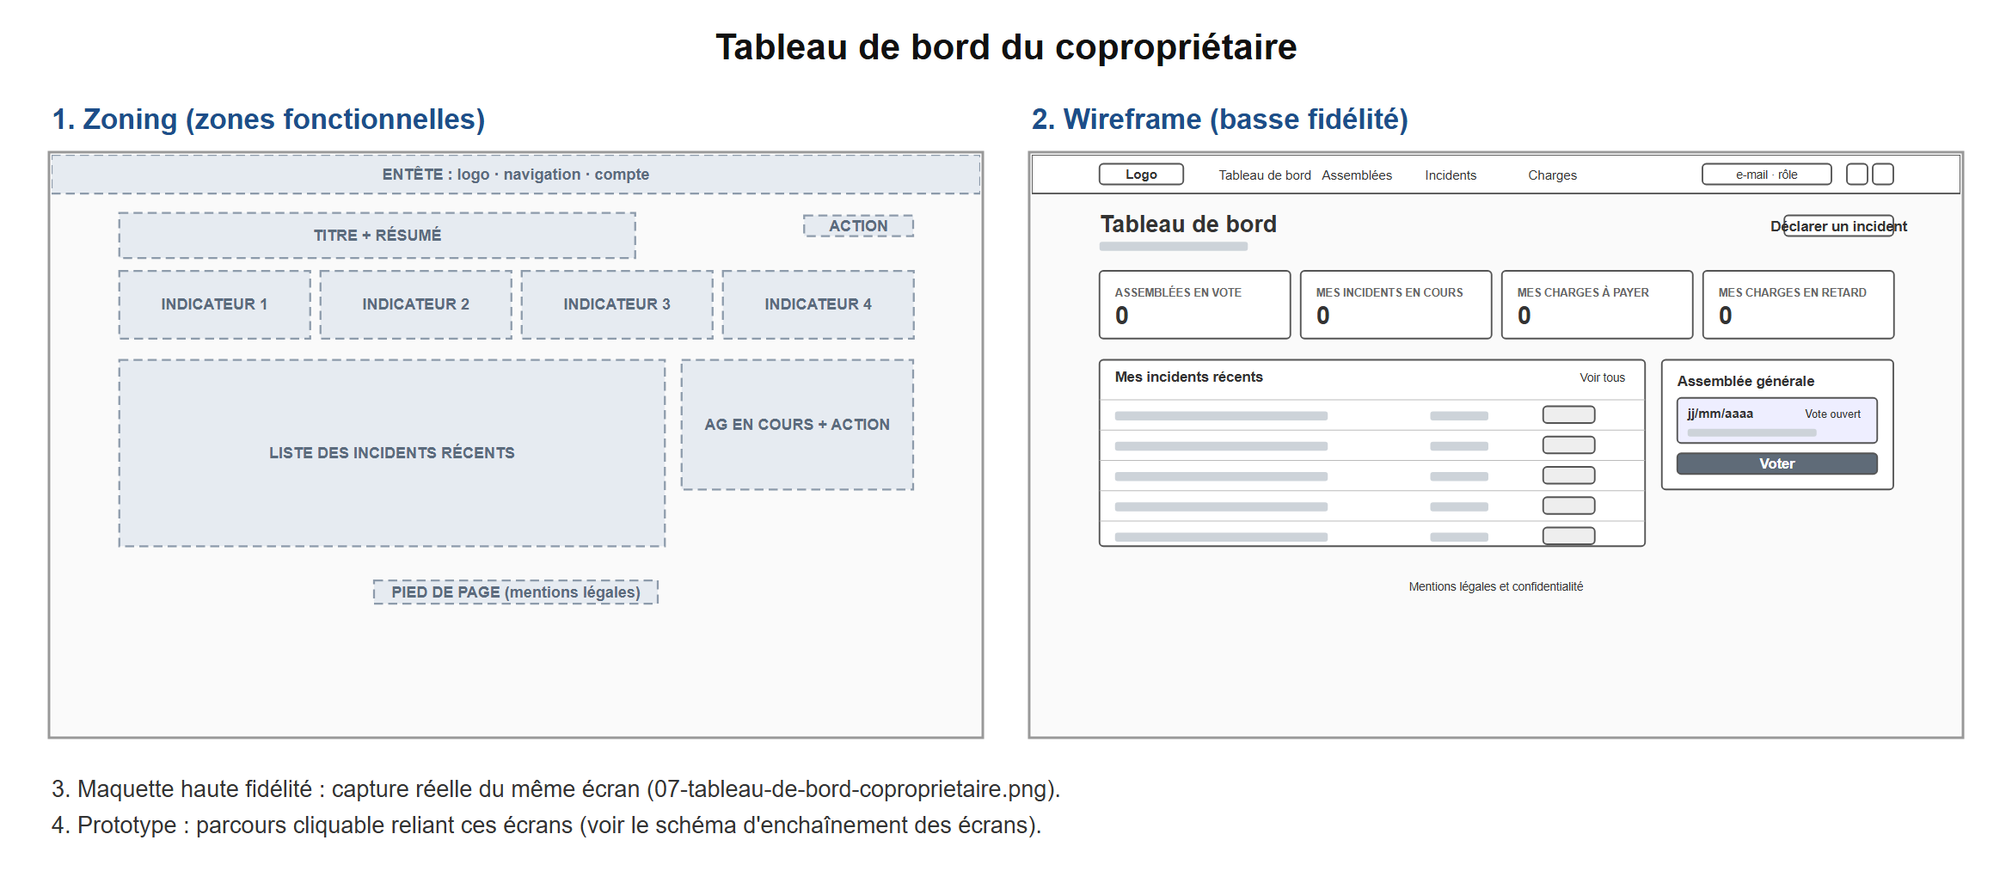
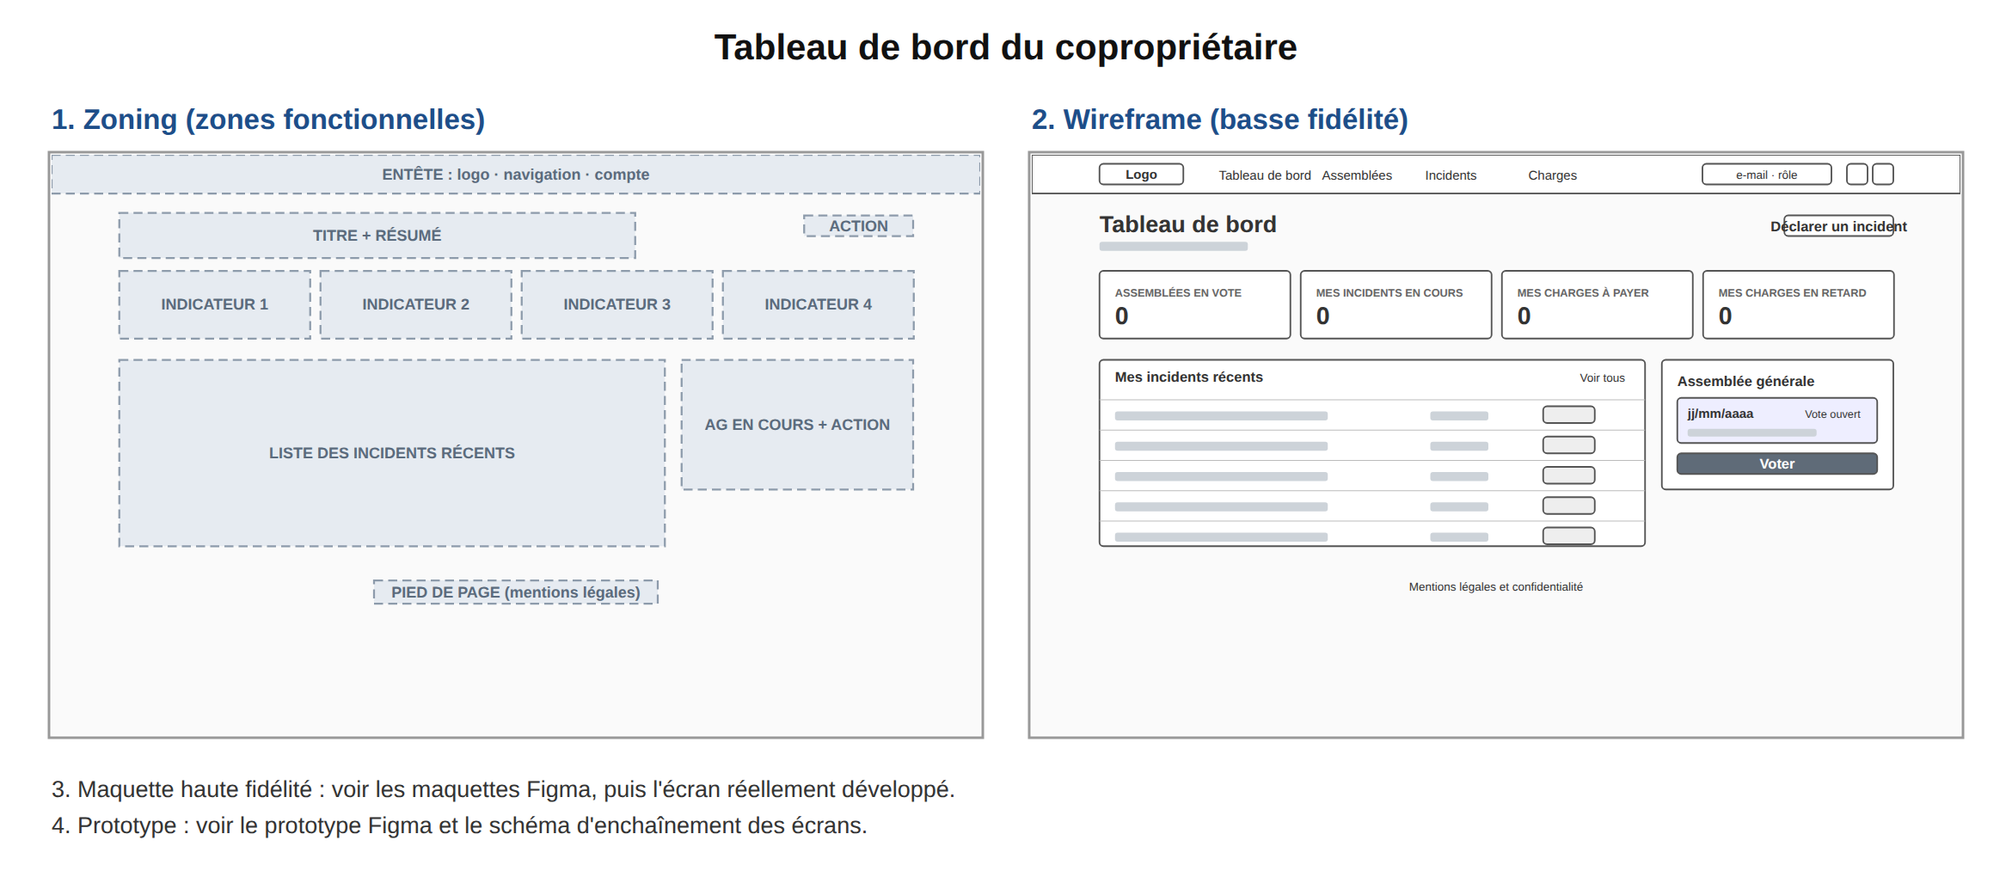
docs(conception): dictionnaire non technique, associations à l'infinitif et prototype Figma
- dictionnaire de données réécrit en termes compréhensibles par un client
  (formats alphabétique, alphanumérique, numérique, date, logique), sans
  identifiant ni type SQL, réservés au MCD et au MPD ;
- MCD : associations nommées par un verbe à l'infinitif (POSSEDER, ORGANISER,
  COMPORTER, RATTACHER, VOTER, CONCERNER, SURVENIR_DANS, PORTER_SUR,
  SIGNALER, DEMANDER), README Merise aligné ;
- démarche UX : maquettes et prototype réalisés sous Figma, capture du
  prototype ajoutée, notes des planches zoning/wireframe corrigées.

diff --git a/docs/05-merise/dictionnaire-donnees.md b/docs/05-merise/dictionnaire-donnees.md
@@ -1,109 +1,100 @@
 # Dictionnaire de données
 
-Première étape de la démarche Merise : on recense toutes les données élémentaires avant de les regrouper en entités (MCD), puis en tables (MLD, MPD). Chaque ligne décrit **une donnée** : son code (le nom retenu en base), sa désignation, son type, sa taille et les règles qui s'y appliquent.
+Première étape de la démarche Merise : on recense toutes les données que l'application doit conserver, avant de les regrouper en entités (MCD), puis en tables (MLD, MPD). Le dictionnaire reste volontairement **non technique**, compréhensible par un client : chaque donnée est décrite par son nom, son format, sa longueur et ses contraintes.
 
-Source : le schéma réellement appliqué en base (`apps/backend/prisma/schema.prisma` et les 7 migrations). Types : `UUID` (identifiant), `VARCHAR(n)` (texte borné), `TEXT` (texte libre), `ENUM` (liste fermée de valeurs), `BOOLEAN`, `INT`/`SMALLINT` (entier), `NUMERIC(p,s)` (décimal exact), `DATE`, `TIMESTAMPTZ` (date et heure avec fuseau).
+Formats utilisés : **Alphabétique** (lettres uniquement), **Alphanumérique** (lettres et chiffres), **Numérique**, **Date**, **Logique** (vrai ou faux). Les types techniques (UUID, VARCHAR, ENUM…) n'apparaissent qu'au [MPD](mpd.md) ; les identifiants ne sont introduits qu'à partir du MCD. La colonne « Code » donne le nom repris dans les modèles suivants.
 
 Colonne « RGPD » : **personnelle** (identifie une personne), **sensible** (financière ou liée à la sécurité, à protéger même sans nom), **technique** (aucune portée personnelle).
 
-## Entité IMMEUBLE
+## Immeuble
 
-| Code | Désignation | Type | Taille | Obligatoire | Règles | RGPD |
-|---|---|---|---|---|---|---|
-| id_immeuble | Identifiant de l'immeuble | UUID | — | oui | clé primaire, généré par la base | technique |
-| nom | Nom de la copropriété | VARCHAR | 120 | oui | — | technique |
-| adresse | Adresse de l'immeuble | VARCHAR | 255 | oui | — | technique |
+| Donnée | Code | Format | Longueur | Contraintes | RGPD |
+| --- | --- | --- | --- | --- | --- |
+| Nom de la copropriété | nom | Alphanumérique | 120 | Obligatoire | technique |
+| Adresse de l'immeuble | adresse | Alphanumérique | 255 | Obligatoire | technique |
 
-## Entité UTILISATEUR
+## Utilisateur
 
-| Code | Désignation | Type | Taille | Obligatoire | Règles | RGPD |
-|---|---|---|---|---|---|---|
-| id_utilisateur | Identifiant de l'utilisateur | UUID | — | oui | clé primaire | technique |
-| nom | Nom affiché | VARCHAR | 120 | oui | — | **personnelle** |
-| email | Adresse e-mail de connexion | VARCHAR | 255 | oui | unique | **personnelle** |
-| mot_de_passe_hash | Empreinte du mot de passe | VARCHAR | 255 | oui | jamais le mot de passe en clair (bcrypt, facteur 12) | **sensible** |
-| type_compte | Type de compte | ENUM | — | oui | SYNDIC ou COPROPRIETAIRE | technique |
-| est_membre_conseil_syndical | Appartient au conseil syndical | BOOLEAN | — | oui, défaut faux | vrai uniquement pour un COPROPRIETAIRE (contrainte CHECK) | technique |
-| date_creation | Date de création du compte | TIMESTAMPTZ | — | oui, défaut maintenant | — | technique |
-| theme_teinte | Teinte du thème de couleur | SMALLINT | — | non | de 0 à 359 ; renseignée avec theme_intensite ou pas du tout | technique |
-| theme_intensite | Intensité du thème de couleur | SMALLINT | — | non | de 0 à 100 | technique |
-| sessions_valides_depuis | Date avant laquelle les sessions sont refusées | TIMESTAMPTZ | — | non | mise à jour à chaque changement de mot de passe | technique |
-| notifications_email | Accepte les e-mails de service | BOOLEAN | — | oui, défaut vrai | — | technique |
+| Donnée | Code | Format | Longueur | Contraintes | RGPD |
+| --- | --- | --- | --- | --- | --- |
+| Nom affiché | nom | Alphanumérique | 120 | Obligatoire | personnelle |
+| Adresse e-mail | email | Alphanumérique | 255 | Obligatoire, unique | personnelle |
+| Mot de passe | mot_de_passe_hash | Alphanumérique | 12 à 128 | Obligatoire ; conservé uniquement sous forme d'empreinte, jamais en clair | sensible |
+| Type de compte | type_compte | Alphabétique | — | Obligatoire ; syndic ou copropriétaire | technique |
+| Membre du conseil syndical | est_membre_conseil_syndical | Logique | — | Obligatoire, faux par défaut ; vrai uniquement pour un copropriétaire | technique |
+| Date de création du compte | date_creation | Date | — | Obligatoire, renseignée automatiquement | technique |
+| Teinte du thème de couleur | theme_teinte | Numérique | 3 | Facultatif ; de 0 à 359 ; renseignée avec l'intensité ou pas du tout | technique |
+| Intensité du thème de couleur | theme_intensite | Numérique | 3 | Facultatif ; de 0 à 100 | technique |
+| Date de validité des sessions | sessions_valides_depuis | Date | — | Facultatif ; les sessions ouvertes avant cette date sont refusées ; mise à jour à chaque changement de mot de passe | technique |
+| Accepte les e-mails de service | notifications_email | Logique | — | Obligatoire, vrai par défaut | technique |
 
-## Entité LOT
+## Lot
 
-| Code | Désignation | Type | Taille | Obligatoire | Règles | RGPD |
-|---|---|---|---|---|---|---|
-| id_lot | Identifiant du lot | UUID | — | oui | clé primaire | technique |
-| numero | Numéro du lot | VARCHAR | 20 | oui | unique dans un immeuble | technique |
-| type_lot | Nature du lot | VARCHAR | 50 | oui | ex. « appartement », « cave » | technique |
+| Donnée | Code | Format | Longueur | Contraintes | RGPD |
+| --- | --- | --- | --- | --- | --- |
+| Numéro du lot | numero | Alphanumérique | 20 | Obligatoire ; unique dans un immeuble | technique |
+| Nature du lot | type_lot | Alphanumérique | 50 | Obligatoire ; par exemple « appartement » ou « cave » | technique |
 
-## Association RATTACHE (utilisateur — lot)
+## Rattachement d'un lot à un copropriétaire
 
-| Code | Désignation | Type | Taille | Obligatoire | Règles | RGPD |
-|---|---|---|---|---|---|---|
-| id_rattachement | Identifiant du rattachement | UUID | — | oui | clé primaire | technique |
-| date_debut | Début de la propriété | DATE | — | oui, défaut aujourd'hui | — | technique |
-| date_fin | Fin de la propriété | DATE | — | non | postérieure à date_debut ; un seul rattachement sans date de fin par lot | technique |
+| Donnée | Code | Format | Longueur | Contraintes | RGPD |
+| --- | --- | --- | --- | --- | --- |
+| Début de la propriété | date_debut | Date | — | Obligatoire, date du jour par défaut | technique |
+| Fin de la propriété | date_fin | Date | — | Facultatif ; postérieure au début ; un seul propriétaire sans date de fin par lot | technique |
 
-## Entité AG (assemblée générale)
+## Assemblée générale
 
-| Code | Désignation | Type | Taille | Obligatoire | Règles | RGPD |
-|---|---|---|---|---|---|---|
-| id_ag | Identifiant de l'assemblée | UUID | — | oui | clé primaire | technique |
-| date_ag | Date de l'assemblée | DATE | — | oui | — | technique |
-| statut | Étape de l'assemblée | ENUM | — | oui, défaut PLANIFIEE | PLANIFIEE, OUVERTE ou CLOTUREE (dans cet ordre) | technique |
-| nombre_inscrits_geles | Nombre de votants figé | INT | — | non | fixé à l'ouverture du vote, jamais recalculé | technique |
+| Donnée | Code | Format | Longueur | Contraintes | RGPD |
+| --- | --- | --- | --- | --- | --- |
+| Date de l'assemblée | date_ag | Date | — | Obligatoire | technique |
+| Étape de l'assemblée | statut | Alphabétique | — | Obligatoire, planifiée par défaut ; planifiée, ouverte puis clôturée | technique |
+| Nombre de votants figé | nombre_inscrits_geles | Numérique | — | Facultatif ; fixé à l'ouverture du vote, jamais recalculé | technique |
 
-## Entité RESOLUTION
+## Résolution
 
-| Code | Désignation | Type | Taille | Obligatoire | Règles | RGPD |
-|---|---|---|---|---|---|---|
-| id_resolution | Identifiant de la résolution | UUID | — | oui | clé primaire | technique |
-| libelle | Intitulé de la résolution | VARCHAR | 500 | oui | — | technique |
-| type_majorite | Règle de majorité applicable | ENUM | — | oui | SIMPLE, ABSOLUE, DOUBLE_MAJORITE ou UNANIMITE | technique |
-| statut_resultat | Résultat du vote | ENUM | — | oui, défaut EN_ATTENTE | EN_ATTENTE, ADOPTEE ou REJETEE | technique |
+| Donnée | Code | Format | Longueur | Contraintes | RGPD |
+| --- | --- | --- | --- | --- | --- |
+| Intitulé de la résolution | libelle | Alphanumérique | 500 | Obligatoire | technique |
+| Règle de majorité | type_majorite | Alphabétique | — | Obligatoire ; simple, absolue, double majorité ou unanimité | technique |
+| Résultat du vote | statut_resultat | Alphabétique | — | Obligatoire, en attente par défaut ; en attente, adoptée ou rejetée | technique |
 
-## Association VOTE (utilisateur — résolution)
+## Vote
 
-| Code | Désignation | Type | Taille | Obligatoire | Règles | RGPD |
-|---|---|---|---|---|---|---|
-| valeur | Sens du vote | ENUM | — | oui | OUI, NON ou ABSTENTION ; jamais exposé nominativement (anonymat) | **sensible** |
-| date_vote | Date et heure du vote | TIMESTAMPTZ | — | oui, défaut maintenant | — | technique |
+| Donnée | Code | Format | Longueur | Contraintes | RGPD |
+| --- | --- | --- | --- | --- | --- |
+| Sens du vote | valeur | Alphabétique | — | Obligatoire ; oui, non ou abstention ; jamais montré nominativement | sensible |
+| Date et heure du vote | date_vote | Date | — | Obligatoire, renseignée automatiquement | technique |
 
-Un seul vote par couple (résolution, utilisateur) : clé primaire composite.
+Un copropriétaire ne vote qu'une seule fois par résolution.
 
-## Entité CHARGE
+## Charge
 
-| Code | Désignation | Type | Taille | Obligatoire | Règles | RGPD |
-|---|---|---|---|---|---|---|
-| id_charge | Identifiant de la charge | UUID | — | oui | clé primaire | technique |
-| montant | Montant dû | NUMERIC | (10,2) | oui | strictement positif | **sensible** (donnée financière visible du seul propriétaire du lot, du syndic et du conseil syndical) |
-| periode | Période concernée | VARCHAR | 20 | oui | ex. « 2026-T3 » | technique |
-| statut | État du paiement | ENUM | — | oui, défaut A_PAYER | A_PAYER, PAYEE ou EN_RETARD (déduit si l'échéance est dépassée) | **sensible** |
-| date_echeance | Date limite de paiement | DATE | — | non | — | technique |
+| Donnée | Code | Format | Longueur | Contraintes | RGPD |
+| --- | --- | --- | --- | --- | --- |
+| Montant dû | montant | Numérique | 10, dont 2 décimales | Obligatoire ; strictement positif | sensible (visible du seul propriétaire du lot, du syndic et du conseil syndical) |
+| Période concernée | periode | Alphanumérique | 20 | Obligatoire ; par exemple « 2026-T3 » | technique |
+| État du paiement | statut | Alphabétique | — | Obligatoire, à payer par défaut ; à payer, payée ou en retard (déduit si l'échéance est dépassée) | sensible |
+| Date limite de paiement | date_echeance | Date | — | Facultatif | technique |
 
-## Entité INCIDENT
+## Incident
 
-| Code | Désignation | Type | Taille | Obligatoire | Règles | RGPD |
-|---|---|---|---|---|---|---|
-| id_incident | Identifiant de l'incident | UUID | — | oui | clé primaire | technique |
-| titre | Titre de l'incident | VARCHAR | 200 | oui | `<` et `>` refusés | technique |
-| description | Description détaillée | TEXT | — | non | `<` et `>` refusés | technique |
-| statut | Avancement | ENUM | — | oui, défaut DECLARE | DECLARE, EN_COURS ou RESOLU, transitions strictes | technique |
-| date_creation | Date de déclaration | TIMESTAMPTZ | — | oui, défaut maintenant | — | technique |
+| Donnée | Code | Format | Longueur | Contraintes | RGPD |
+| --- | --- | --- | --- | --- | --- |
+| Titre de l'incident | titre | Alphanumérique | 200 | Obligatoire ; caractères `<` et `>` refusés | technique |
+| Description détaillée | description | Alphanumérique | — | Facultatif ; caractères `<` et `>` refusés | technique |
+| Avancement | statut | Alphabétique | — | Obligatoire, déclaré par défaut ; déclaré, en cours puis résolu | technique |
+| Date de déclaration | date_creation | Date | — | Obligatoire, renseignée automatiquement | technique |
 
-Le déclarant (lien vers UTILISATEUR) n'est jamais montré à un autre copropriétaire ; le lot concerné est facultatif (absent = partie commune).
+Le déclarant n'est jamais montré à un autre copropriétaire ; le lot concerné est facultatif (absent, il s'agit d'une partie commune).
 
-## Entité REINITIALISATION_MOT_DE_PASSE
+## Réinitialisation du mot de passe
 
-| Code | Désignation | Type | Taille | Obligatoire | Règles | RGPD |
-|---|---|---|---|---|---|---|
-| id_reinitialisation | Identifiant de la demande | UUID | — | oui | clé primaire | technique |
-| jeton_hash | Empreinte du jeton envoyé par e-mail | VARCHAR | 64 | oui | unique, SHA-256 ; jamais le jeton en clair | **sensible** |
-| date_creation | Date de la demande | TIMESTAMPTZ | — | oui, défaut maintenant | — | technique |
-| date_expiration | Date limite d'utilisation | TIMESTAMPTZ | — | oui | valable 1 heure | technique |
-| date_utilisation | Date d'utilisation du lien | TIMESTAMPTZ | — | non | vide tant que non utilisé ; usage unique | technique |
+| Donnée | Code | Format | Longueur | Contraintes | RGPD |
+| --- | --- | --- | --- | --- | --- |
+| Jeton envoyé par e-mail | jeton_hash | Alphanumérique | 64 | Obligatoire, unique ; conservé uniquement sous forme d'empreinte | sensible |
+| Date de la demande | date_creation | Date | — | Obligatoire, renseignée automatiquement | technique |
+| Date limite d'utilisation | date_expiration | Date | — | Obligatoire ; une heure après la demande | technique |
+| Date d'utilisation | date_utilisation | Date | — | Facultatif ; vide tant que le lien n'est pas utilisé ; usage unique | technique |
 
 ## Principe de minimisation
 

diff --git a/docs/05-merise/README.md b/docs/05-merise/README.md
@@ -2,7 +2,7 @@
 
 Démarche suivie, dans l'ordre : **dictionnaire de données → MCD → MLD → MPD**.
 
-1. [Dictionnaire de données](dictionnaire-donnees.md) : toutes les données élémentaires, avec leur type, leur taille et leurs règles.
+1. [Dictionnaire de données](dictionnaire-donnees.md) : toutes les données élémentaires, en termes non techniques (format, longueur, contraintes).
 2. **MCD** (modèle conceptuel) : les entités, les associations et leurs cardinalités, sans aucune notion technique.
 3. **MLD** (modèle logique) : le MCD traduit en tables relationnelles avec clés primaires et clés étrangères.
 4. [MPD](mpd.md) (modèle physique) : les tables telles qu'elles existent en PostgreSQL, avec leurs types réels, contraintes et index.
@@ -13,7 +13,7 @@ Les schémas sont fournis en image (PNG) et en vectoriel (SVG) dans [`schemas/`]
 
 ![Modèle conceptuel des données](schemas/mcd.png)
 
-Entités en jaune (l'identifiant est en gras et souligné), associations en bleu, cardinalités écrites **du côté de l'entité** : `(0,n)` signifie que l'entité participe à l'association de zéro à plusieurs fois.
+Entités en jaune (l'identifiant est en gras et souligné), associations en bleu (un verbe à l'infinitif), cardinalités écrites **du côté de l'entité** : `(0,n)` signifie que l'entité participe à l'association de zéro à plusieurs fois.
 
 ### Entités
 
@@ -34,16 +34,16 @@ Entités en jaune (l'identifiant est en gras et souligné), associations en bleu
 
 | Association | Entité (min,max) | Entité (min,max) | Attributs portés | Lecture |
 |---|---|---|---|---|
-| POSSEDE | IMMEUBLE (0,n) | LOT (1,1) | — | un immeuble possède plusieurs lots ; un lot appartient à un seul immeuble |
-| ORGANISE | IMMEUBLE (0,n) | AG (1,1) | — | un immeuble organise plusieurs assemblées dans le temps |
-| COMPORTE | AG (1,n) | RESOLUTION (1,1) | — | une assemblée comporte au moins une résolution (ordre du jour non vide) |
-| RATTACHE | LOT (0,n) | UTILISATEUR (0,n) | date_debut, date_fin | un lot a eu plusieurs propriétaires au fil du temps ; un copropriétaire peut avoir plusieurs lots |
-| VOTE | RESOLUTION (0,n) | UTILISATEUR (0,n) | valeur, date_vote | un copropriétaire vote sur plusieurs résolutions, une résolution reçoit plusieurs votes (un seul vote par couple) |
-| CONCERNE | LOT (0,n) | CHARGE (1,1) | — | une charge concerne un seul lot |
-| SURVIENT_DANS | IMMEUBLE (0,n) | INCIDENT (1,1) | — | un incident survient dans un seul immeuble |
-| PORTE_SUR | LOT (0,n) | INCIDENT (0,1) | — | un incident concerne au plus un lot ; aucun lot signifie une partie commune |
-| SIGNALE | UTILISATEUR (0,n) | INCIDENT (1,1) | — | un incident a un seul déclarant |
-| DEMANDE | UTILISATEUR (0,n) | REINITIALISATION_MDP (1,1) | — | une demande de réinitialisation émane d'un seul utilisateur |
+| POSSEDER | IMMEUBLE (0,n) | LOT (1,1) | — | un immeuble possède plusieurs lots ; un lot appartient à un seul immeuble |
+| ORGANISER | IMMEUBLE (0,n) | AG (1,1) | — | un immeuble organise plusieurs assemblées dans le temps |
+| COMPORTER | AG (1,n) | RESOLUTION (1,1) | — | une assemblée comporte au moins une résolution (ordre du jour non vide) |
+| RATTACHER | LOT (0,n) | UTILISATEUR (0,n) | date_debut, date_fin | un lot a eu plusieurs propriétaires au fil du temps ; un copropriétaire peut avoir plusieurs lots |
+| VOTER | RESOLUTION (0,n) | UTILISATEUR (0,n) | valeur, date_vote | un copropriétaire vote sur plusieurs résolutions, une résolution reçoit plusieurs votes (un seul vote par couple) |
+| CONCERNER | LOT (0,n) | CHARGE (1,1) | — | une charge concerne un seul lot |
+| SURVENIR_DANS | IMMEUBLE (0,n) | INCIDENT (1,1) | — | un incident survient dans un seul immeuble |
+| PORTER_SUR | LOT (0,n) | INCIDENT (0,1) | — | un incident concerne au plus un lot ; aucun lot signifie une partie commune |
+| SIGNALER | UTILISATEUR (0,n) | INCIDENT (1,1) | — | un incident a un seul déclarant |
+| DEMANDER | UTILISATEUR (0,n) | REINITIALISATION_MDP (1,1) | — | une demande de réinitialisation émane d'un seul utilisateur |
 
 ## MLD — modèle logique des données
 
@@ -55,8 +55,8 @@ Règles de passage du MCD au MLD :
 
 - une entité devient une table, son identifiant devient la clé primaire ;
 - une association de cardinalités `(x,n)` / `(1,1)` disparaît : l'identifiant du côté `n` migre dans la table du côté `(1,1)` comme clé étrangère (par exemple `id_immeuble` dans `lot`) ;
-- une association `(0,n)` / `(0,n)` devient une table : `RATTACHE` donne `rattachement`, `VOTE` donne `vote`, qui reçoivent les attributs portés par l'association ;
-- `PORTE_SUR` étant `(0,1)` côté incident, la clé étrangère `id_lot` de `incident` peut être vide (partie commune).
+- une association `(0,n)` / `(0,n)` devient une table : `RATTACHER` donne `rattachement`, `VOTER` donne `vote`, qui reçoivent les attributs portés par l'association ;
+- `PORTER_SUR` étant `(0,1)` côté incident, la clé étrangère `id_lot` de `incident` peut être vide (partie commune).
 
 Schéma relationnel :
 
@@ -79,8 +79,8 @@ Le détail table par table (types PostgreSQL, contraintes, index) est dans [mpd.
 
 ## Choix de conception
 
-- `RATTACHE` devient la table `rattachement` avec un identifiant propre et un index unique **partiel** (`WHERE date_fin IS NULL`) : c'est le moyen d'exprimer « un seul rattachement actif par lot » tout en gardant l'historique complet.
-- `VOTE` devient la table `vote`, de clé primaire composite `(id_resolution, id_utilisateur)` : un second vote est impossible par construction, pas seulement par le code applicatif.
+- `RATTACHER` devient la table `rattachement` avec un identifiant propre et un index unique **partiel** (`WHERE date_fin IS NULL`) : c'est le moyen d'exprimer « un seul rattachement actif par lot » tout en gardant l'historique complet.
+- `VOTER` devient la table `vote`, de clé primaire composite `(id_resolution, id_utilisateur)` : un second vote est impossible par construction, pas seulement par le code applicatif.
 - `incident.id_lot` est facultatif : l'absence de valeur signifie « partie commune », jamais une valeur factice.
 - Les identifiants sont générés par la base (`gen_random_uuid()`), pas par l'ORM.
 

diff --git a/docs/04-ux-ui/README.md b/docs/04-ux-ui/README.md
@@ -8,8 +8,10 @@ Les écrans ont été conçus en quatre niveaux de fidélité croissante, du plu
 
 1. **Zoning** : on découpe l'écran en grandes zones fonctionnelles (entête, indicateurs, liste, action principale, pied de page), sans aucun contenu, pour décider de l'organisation et de la hiérarchie avant de dessiner quoi que ce soit.
 2. **Wireframe** : on place dans chaque zone les éléments réels en niveaux de gris (titres, champs, boutons, listes), sans couleur ni identité visuelle, pour valider le contenu et les actions de l'écran.
-3. **Maquette** : l'écran en haute fidélité, avec le design system ci-dessous (couleurs, typographie, composants). Les captures réelles de l'application, prises sur le même écran, sont celles du dossier.
-4. **Prototype** : les écrans reliés entre eux en parcours cliquable, conforme au [schéma d'enchaînement des écrans](enchainement-ecrans.md).
+3. **Maquette** : l'écran en haute fidélité, réalisé sous **Figma** avec le design system ci-dessous (couleurs, typographie, composants), avant le développement (écrans tableau de bord, vote d'une AG, incidents, charges).
+4. **Prototype** : les maquettes Figma reliées entre elles en parcours cliquable (barre d'onglets Tableau de bord, Vote AG, Incidents, Charges), pour vérifier la navigation avant d'écrire le code. L'enchaînement réel de l'application développée est ensuite formalisé par le [schéma d'enchaînement des écrans](enchainement-ecrans.md).
+
+![Prototype Figma : tableau de bord et onglets reliant les écrans](schemas/prototype-figma.png)
 
 Planches zoning + wireframe de trois écrans clés (fichiers vectoriels `.svg` à côté de chaque image) :
 
